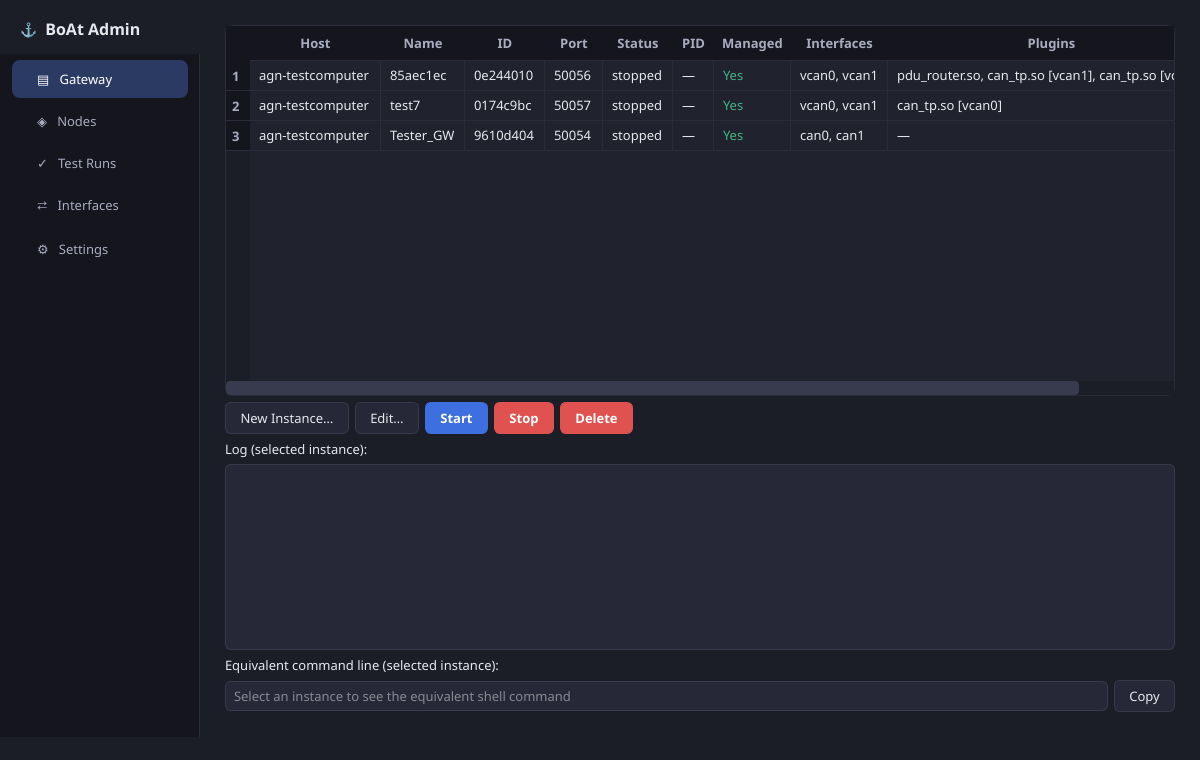
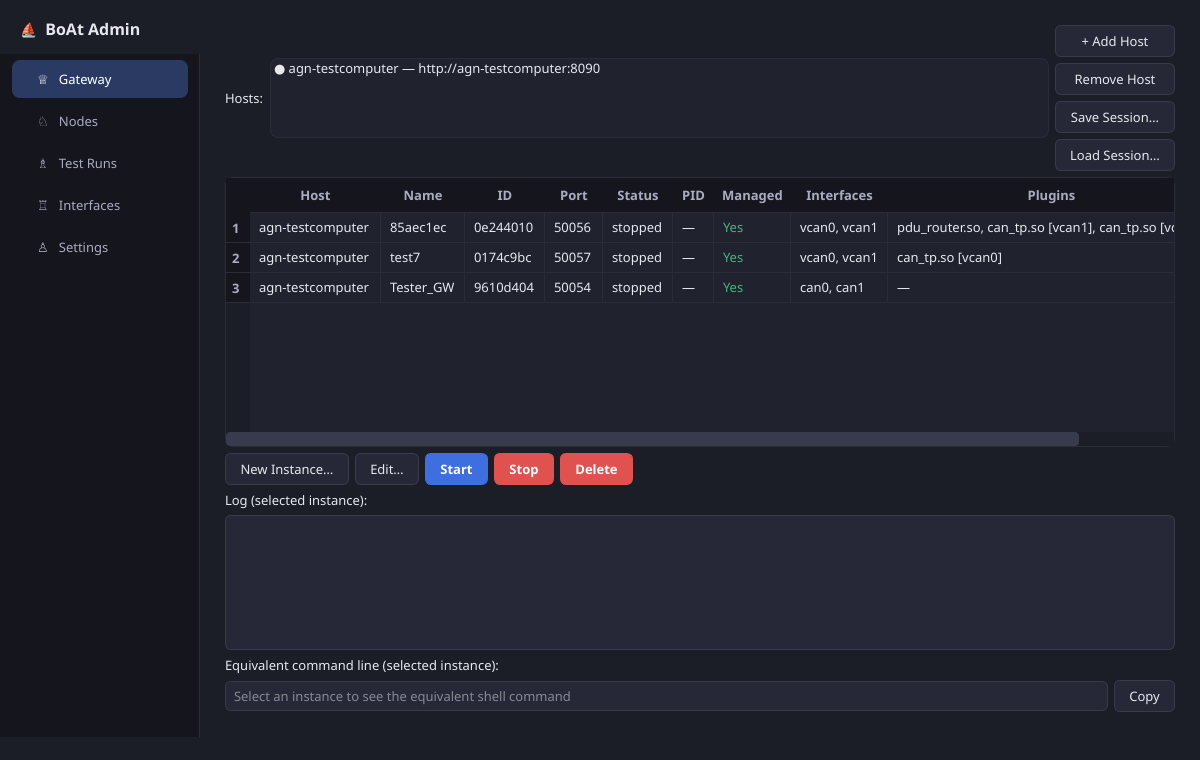
fix: move host management back to Gateway page, leave Settings empty
After trying the dark-theme redesign, user: "Please move the buttons
add host, remove host save session, load session back to the gateway
tab. The settings tab shall stay empty for now."

_build_gateways_tab() regains the host bar (host list, + Add Host,
Remove Host, Save Session..., Load Session...) it had before the
redesign moved it to a dedicated Settings page. _build_settings_tab()
now just returns an empty QWidget.

Preserved the user's own icon edits made while testing (app-title mark
back to sailboat, sidebar page icons swapped to chess pieces) --
untouched, only the requested structural move was made.

Verified on real hardware (agn-testcomputer), read-only: a throwaway Qt
driver script confirmed the Gateway page shows the real host list with
both button rows at the top, and Settings renders genuinely empty.
admin_gui/docs/screenshot.png regenerated to match.

Docs: AGENTS.md, admin_gui/README.md (Usage step 1, Settings tab
section), and dated updates to the backlog entry and TC_AdminGui_021 in
test/AdminGui.md.

diff --git a/admin_gui/main.py b/admin_gui/main.py
@@ -1942,7 +1942,7 @@ class MainWindow(QMainWindow):
         sidebar_layout.setContentsMargins(0, 0, 0, 0)
         sidebar_layout.setSpacing(0)
 
-        title = QLabel("⚓  BoAt Admin")
+        title = QLabel("⛵  BoAt Admin")
         title.setObjectName("AppTitle")
         sidebar_layout.addWidget(title)
 
@@ -1960,11 +1960,11 @@ class MainWindow(QMainWindow):
         root.addWidget(content, 1)
 
         pages = [
-            ("Gateway", "▤", self._build_gateways_tab()),
-            ("Nodes", "◈", self._build_nodes_tab()),
-            ("Test Runs", "✓", self._build_test_runs_tab()),
-            ("Interfaces", "⇄", self._build_interfaces_tab()),
-            ("Settings", "⚙", self._build_settings_tab()),
+            ("Gateway", "♕", self._build_gateways_tab()),
+            ("Nodes", "♘", self._build_nodes_tab()),
+            ("Test Runs", "♗", self._build_test_runs_tab()),
+            ("Interfaces", "♖", self._build_interfaces_tab()),
+            ("Settings", "♙", self._build_settings_tab()),
         ]
         for label, icon, widget in pages:
             self.nav_list.addItem(QListWidgetItem(f"   {icon}   {label}"))
@@ -1989,6 +1989,31 @@ class MainWindow(QMainWindow):
     def _build_gateways_tab(self) -> QWidget:
         tab = QWidget()
         layout = QVBoxLayout(tab)
+
+        # ── Hosts (shared setup the rest of this page's data depends on --
+        # lives here rather than on its own Settings page; see add_host()/
+        # remove_host()/refresh_host_list() below) ──
+        host_bar = QHBoxLayout()
+        host_bar.addWidget(QLabel("Hosts:"))
+        self.host_list = QListWidget()
+        self.host_list.setFixedHeight(80)
+        self.host_list.setSelectionMode(QAbstractItemView.SingleSelection)
+        host_bar.addWidget(self.host_list, 1)
+        host_btns = QVBoxLayout()
+        add_host_btn = QPushButton("+ Add Host")
+        add_host_btn.clicked.connect(self.add_host)
+        remove_host_btn = QPushButton("Remove Host")
+        remove_host_btn.clicked.connect(self.remove_host)
+        save_session_btn = QPushButton("Save Session…")
+        save_session_btn.clicked.connect(self.save_session)
+        load_session_btn = QPushButton("Load Session…")
+        load_session_btn.clicked.connect(self.load_session)
+        host_btns.addWidget(add_host_btn)
+        host_btns.addWidget(remove_host_btn)
+        host_btns.addWidget(save_session_btn)
+        host_btns.addWidget(load_session_btn)
+        host_bar.addLayout(host_btns)
+        layout.addLayout(host_bar)
 
         # ── Instance table ──
         self.table = QTableWidget(0, 10)
@@ -2207,46 +2232,11 @@ class MainWindow(QMainWindow):
         return tab
 
     def _build_settings_tab(self) -> QWidget:
-        """Host management -- Add/Remove Host, Save/Load Session. Lives on
-        its own page rather than pinned above every other page (where it
-        used to be): these are host *definitions*, shared setup every
-        other page's data depends on, not something you touch as often as
-        the per-kind tables themselves."""
-        tab = QWidget()
-        layout = QVBoxLayout(tab)
-
-        layout.addWidget(QLabel("Hosts"))
-        host_bar = QHBoxLayout()
-        self.host_list = QListWidget()
-        self.host_list.setSelectionMode(QAbstractItemView.SingleSelection)
-        host_bar.addWidget(self.host_list, 1)
-        host_btns = QVBoxLayout()
-        add_host_btn = QPushButton("+ Add Host")
-        add_host_btn.clicked.connect(self.add_host)
-        remove_host_btn = QPushButton("Remove Host")
-        remove_host_btn.clicked.connect(self.remove_host)
-        save_session_btn = QPushButton("Save Session…")
-        save_session_btn.clicked.connect(self.save_session)
-        load_session_btn = QPushButton("Load Session…")
-        load_session_btn.clicked.connect(self.load_session)
-        host_btns.addWidget(add_host_btn)
-        host_btns.addWidget(remove_host_btn)
-        host_btns.addWidget(save_session_btn)
-        host_btns.addWidget(load_session_btn)
-        host_btns.addStretch(1)
-        host_bar.addLayout(host_btns)
-        layout.addLayout(host_bar, 1)
-
-        note = QLabel(
-            "● reachable, ○ unreachable (checked every 2s). Removing a host "
-            "here only forgets it locally -- it doesn't stop or affect "
-            "anything running on that machine."
-        )
-        note.setWordWrap(True)
-        note.setStyleSheet("color: gray; font-size: 11px;")
-        layout.addWidget(note)
-
-        return tab
+        """Empty for now, by request -- host management (Add/Remove Host,
+        Save/Load Session) moved back to the Gateway page (see
+        _build_gateways_tab()), reverting the earlier move that pulled it
+        out onto its own page."""
+        return QWidget()
 
     def closeEvent(self, event) -> None:
         self.worker.stop()

diff --git a/admin_gui/README.md b/admin_gui/README.md
@@ -3,12 +3,13 @@
 A PySide6 desktop client for one or more `ui/launcher_agent.py` instances.
 Add a host per machine that runs gateways; the app polls each host's REST API
 and shows one aggregated table of every gateway instance across all of them.
-A dark sidebar navigates five pages: **Gateway** (`boat_gateway` processes),
-**Nodes** (scripts under `boat-platform/nodes/`, see `AGENTS.md`),
-**Test Runs** (`boat test run <manifest.json>` invocations, the automated
-CI-style HIL suite runner), **Interfaces** (create/configure/up/down for
-vcan, veth, and physical network interfaces on a host), and **Settings**
-(host management -- see below).
+A dark sidebar navigates five pages: **Gateway** (`boat_gateway` processes
+-- also where host management lives, see below), **Nodes** (scripts under
+`boat-platform/nodes/`, see `AGENTS.md`), **Test Runs** (`boat test run
+<manifest.json>` invocations, the automated CI-style HIL suite runner),
+**Interfaces** (create/configure/up/down for vcan, veth, and physical
+network interfaces on a host), and **Settings** (currently empty,
+reserved for future app-wide config).
 
 No SSH is involved anywhere in this app — it only ever calls each agent's own
 HTTP API, and each agent only ever touches processes on its own machine. See
@@ -50,9 +51,9 @@ reference for any future visual changes.
 
 ## Usage
 
-1. On the **Settings** page: **Add Host** — display name + agent URL (e.g.
-   `agn-testcomputer:8090`; `http://` is added automatically if omitted).
-   Each host needs `ui/launcher_agent.py` already running there
+1. At the top of the **Gateway** page: **Add Host** — display name + agent
+   URL (e.g. `agn-testcomputer:8090`; `http://` is added automatically if
+   omitted). Each host needs `ui/launcher_agent.py` already running there
    (`python3 ui/launcher_agent.py`, default port 8090). Hosts persist
    across runs in `~/.boat/admin_hosts.json`. A host's dot in the list is
    filled (●) when reachable, hollow (○) when not (checked every 2s, same
@@ -60,7 +61,7 @@ reference for any future visual changes.
    also live here — capture/restore *all* hosts and their agent-managed
    instance/node/test-run definitions at once, docker-compose-style — see
    the dedicated section below.
-2. Back on **Gateway**: the instance table (Host, Name, ID, Port, Status, PID, **Managed**,
+2. Below that: the instance table (Host, Name, ID, Port, Status, PID, **Managed**,
    Interfaces, Plugins, Uptime) aggregates every instance from every added
    host, refreshing every 2 seconds. **Plugins** shows each
    plugin's `.so` basename, with the interface it's bound to in brackets
@@ -283,12 +284,11 @@ against the same host and neither owns exclusive control.
 
 ## Settings tab
 
-Host management -- **+ Add Host**, **Remove Host**, **Save Session…**,
-**Load Session…** -- lives here rather than pinned above every other
-page the way it used to be, since these are host *definitions*, shared
-setup every other page's data depends on, not something touched as often
-as the per-page tables themselves. See step 1 under Usage above for the
-Add/Remove Host flow and "Session files" below for Save/Load.
+Currently empty -- reserved for future app-wide config. Host management
+(**+ Add Host**, **Remove Host**, **Save Session…**, **Load Session…**)
+briefly lived here, then moved back to the top of the **Gateway** page by
+request. See step 1 under Usage above for the Add/Remove Host flow and
+"Session files" below for Save/Load.
 
 ## Session files (save/load your whole setup)
 

diff --git a/AGENTS.md b/AGENTS.md
@@ -349,18 +349,17 @@ N≠0, muted gray for "stopped"/"No"). Adapted from a mockup the user
 provided; approximated the exact palette from the image rather than
 guessing blind.
 
-**Settings** holds host management -- host list (persisted to
-`~/.boat/admin_hosts.json`), **+ Add Host**/**Remove Host**, and
-**Save Session…**/**Load Session…** -- moved off the always-visible top
-bar it used to occupy (pinned above every page) since these are host
-*definitions*, shared setup the other pages' data depends on, not
-something touched as often as the per-page tables themselves. Every
-other page shows the aggregated instance table (with a **Managed**
-column, `Yes`/`No` per the `external:` discovery above), polled every 2s
-on a background `QThread` → create/**edit**/start/stop/delete, plus a log
-viewer and an **equivalent command line** panel (the `BOAT_*=...
-./boat_gateway` form of whatever instance is selected, with a Copy
-button -- for pasting into a script) for the selected instance.
+Host management -- host list (persisted to `~/.boat/admin_hosts.json`),
+**+ Add Host**/**Remove Host**, and **Save Session…**/**Load Session…**
+-- lives at the top of the **Gateway** page (briefly moved to a separate
+Settings page, then moved back by request). **Settings** is currently
+empty, reserved for future app-wide config. The **Gateway** page shows
+the aggregated instance table (with a **Managed** column, `Yes`/`No` per
+the `external:` discovery above), polled every 2s on a background
+`QThread` → create/**edit**/start/stop/delete, plus a log viewer and an
+**equivalent command line** panel (the `BOAT_*=... ./boat_gateway` form
+of whatever instance is selected, with a Copy button -- for pasting into
+a script) for the selected instance.
 The New/Edit Instance dialog also runs the *reverse* direction: paste a
 command line into **From command line** and **Parse && Fill** populates
 every field from it. **Save Session…**/**Load Session…** write/read a

diff --git a/backlog/launcher_agent_backlog.md b/backlog/launcher_agent_backlog.md
@@ -737,6 +737,26 @@ artifacts (Xvfb, driver scripts, screenshots not meant for the repo)
 cleaned up afterward. Full account: `test/AdminGui.md`'s
 `TC_AdminGui_021_dark_theme_sidebar_redesign`.
 
+**Update (2026-08-19, continued):** after trying the real redesign, user:
+"Please move the buttons add host, remove host save session, load
+session back to the gateway tab. The settings tab shall stay empty for
+now." Host management (host list, Add/Remove Host, Save/Load Session)
+moved from its brief stay on the Settings page back to the top of the
+**Gateway** page -- `_build_gateways_tab()` regained the host bar it
+originally had before the redesign, `_build_settings_tab()` now just
+`return QWidget()`. (The user had also swapped a couple of icon glyphs
+themselves in the meantime -- the app-title mark back from anchor to
+sailboat, and the sidebar's page icons to chess pieces -- both left
+exactly as they set them; only the requested structural move was made.)
+Verified on real hardware (`agn-testcomputer`), read-only, the same way
+as the redesign itself: a throwaway Qt driver script (Xvfb + `xcb`, not
+committed) confirmed the Gateway page now shows the real host list (1
+entry) and both host-management buttons rows correctly at the top, and
+the Settings page renders genuinely empty. `admin_gui/docs/screenshot.png`
+regenerated again to match (the other three doc screenshots -- dialogs
+and the Nodes page -- were unaffected by this move and didn't need
+regenerating). All test artifacts cleaned up afterward.
+
 ## Next steps (not started)
 
 - Decide instance persistence approach once the "agent restart loses

diff --git a/test/AdminGui.md b/test/AdminGui.md
@@ -1141,3 +1141,14 @@ no light-mode popup. Screenshots also used to regenerate
 were from the old light-mode/tab-bar layout, now stale). All test
 artifacts (screenshots not meant for the repo, Xvfb, driver scripts)
 cleaned up afterward.
+
+**Update (2026-08-19):** after trying it, user asked for host management
+(Add/Remove Host, Save/Load Session) to move from Settings back to the
+top of the Gateway page, with Settings left genuinely empty for now.
+Verified on real hardware (`agn-testcomputer`), read-only: a throwaway Qt
+driver script confirmed the Gateway page's host list shows real data (1
+configured host) with both button rows present at the top, and the
+Settings page renders as a blank page with no widgets. `screenshot.png`
+regenerated again to match; the dialog and Nodes-page screenshots were
+unaffected by this move. Full account: `backlog/launcher_agent_backlog.md`'s
+dark-theme entry, "continued" update.
